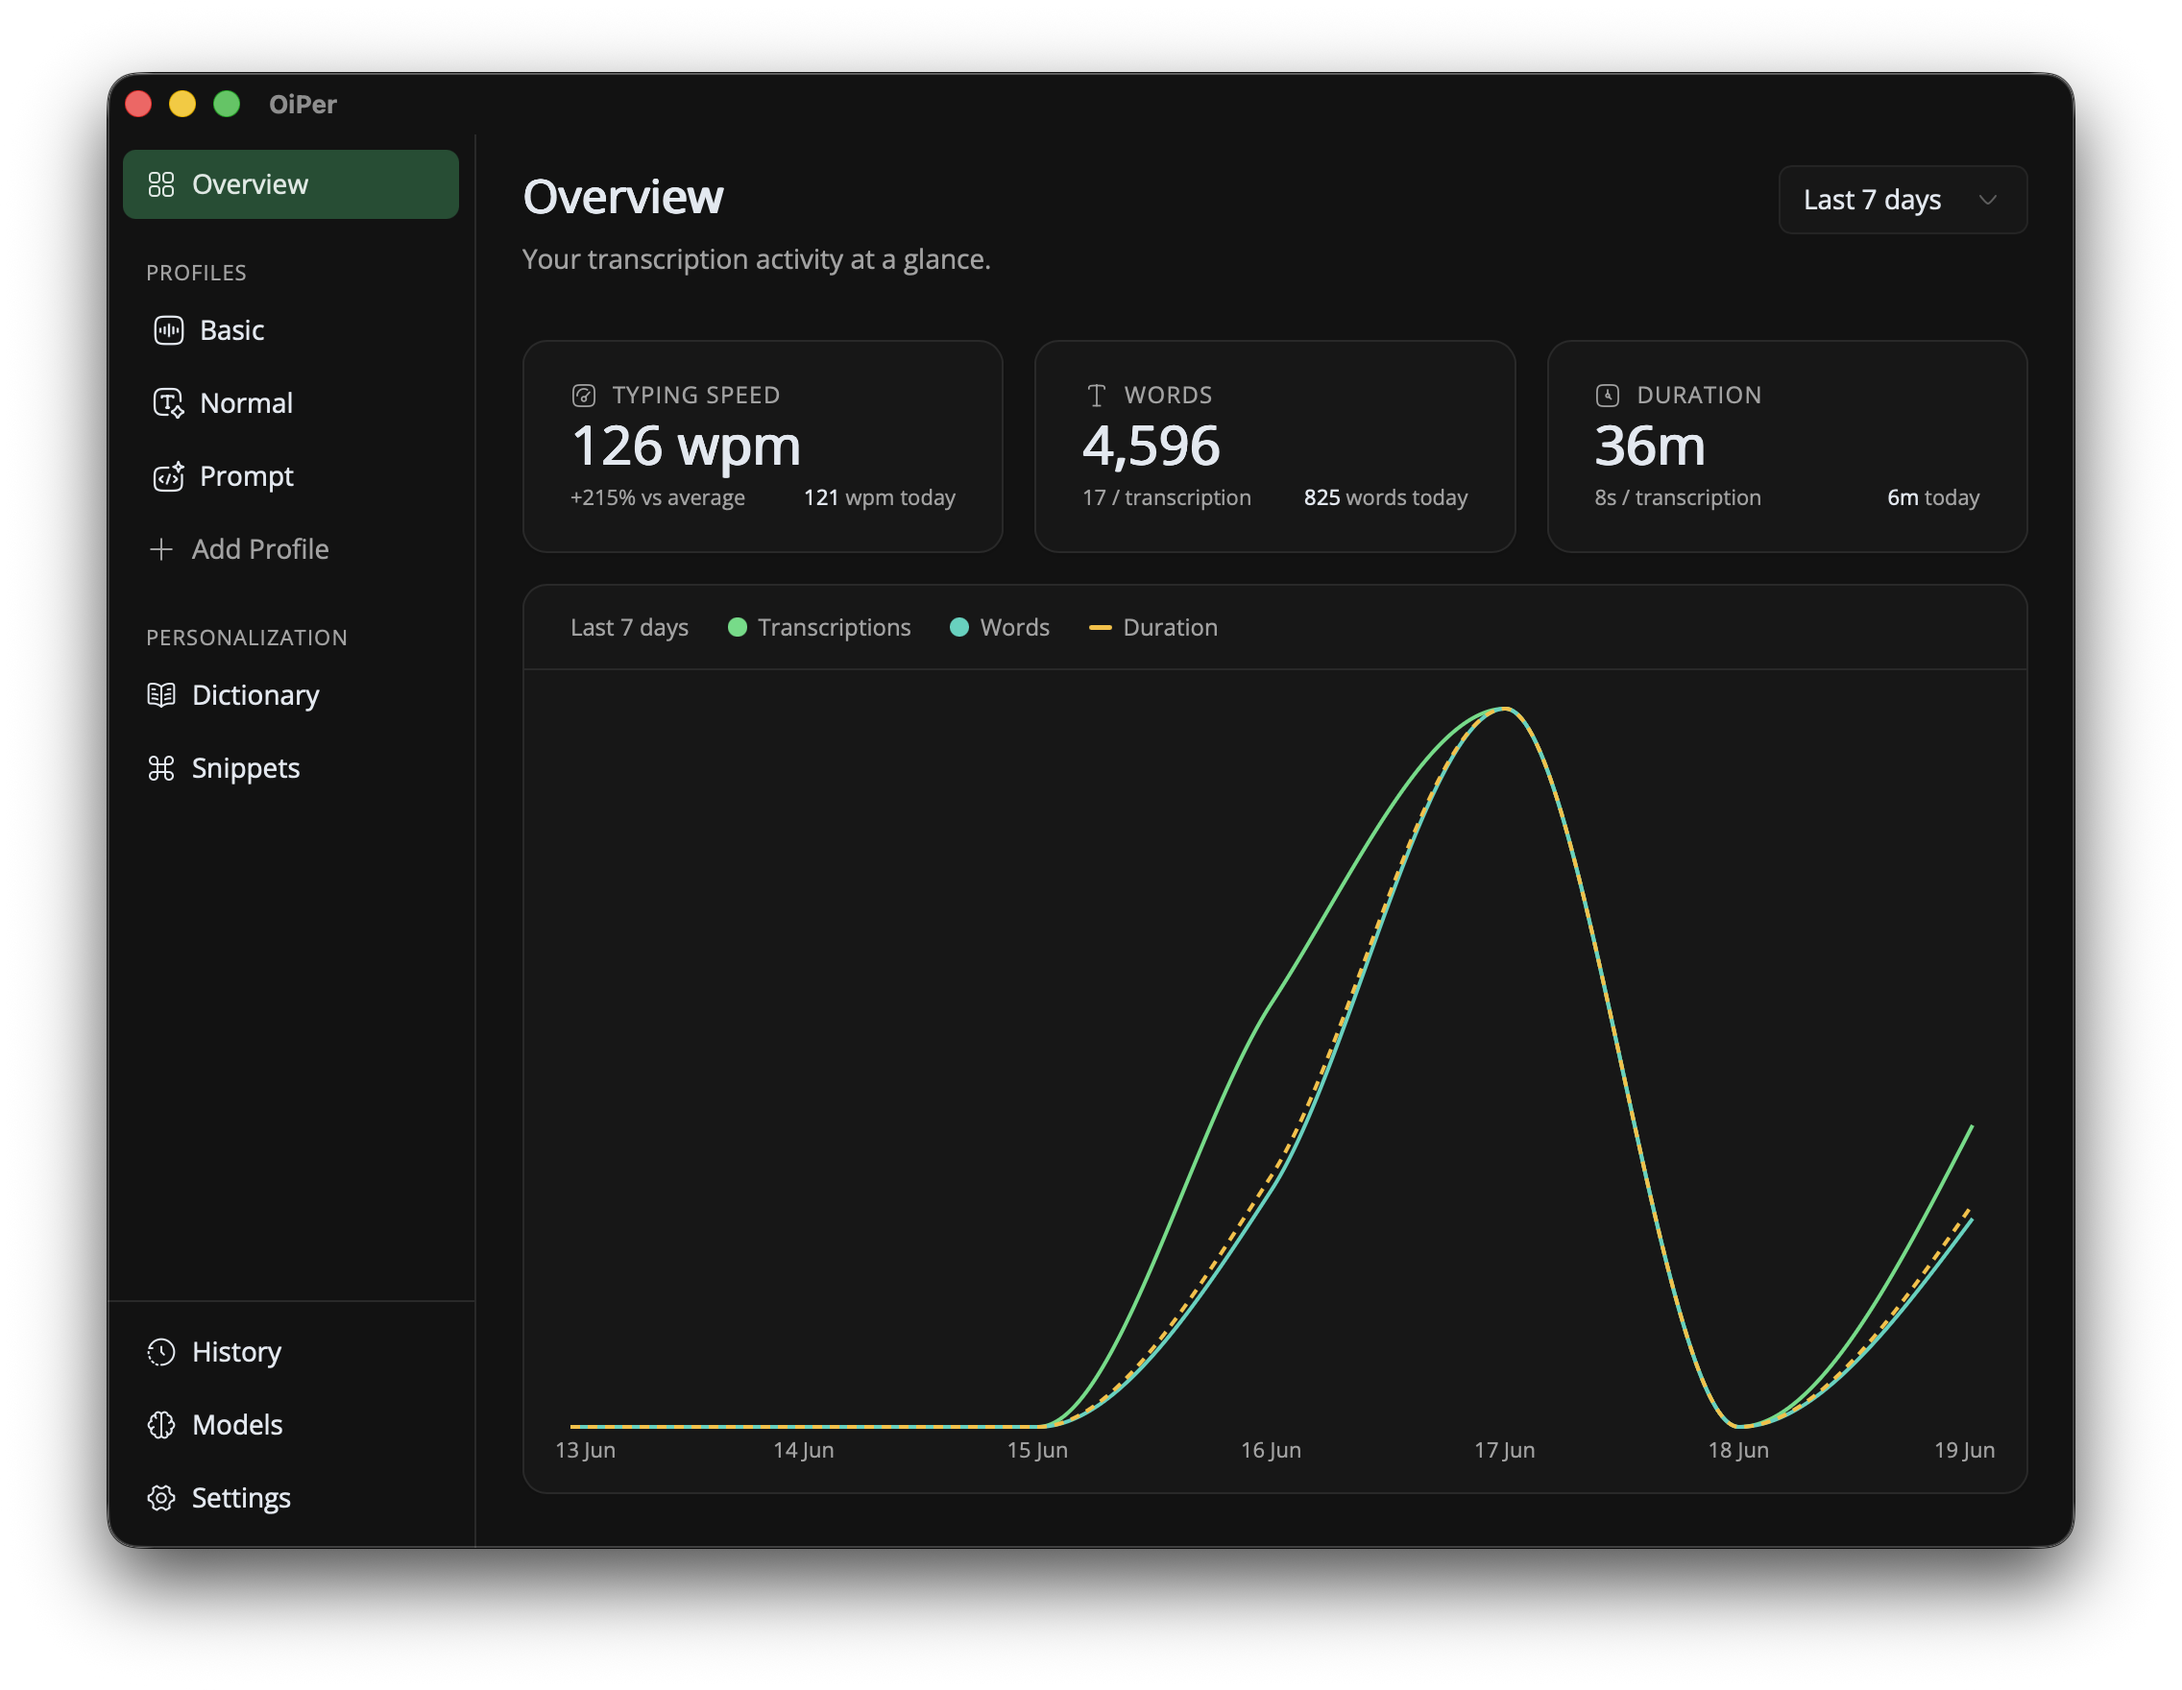
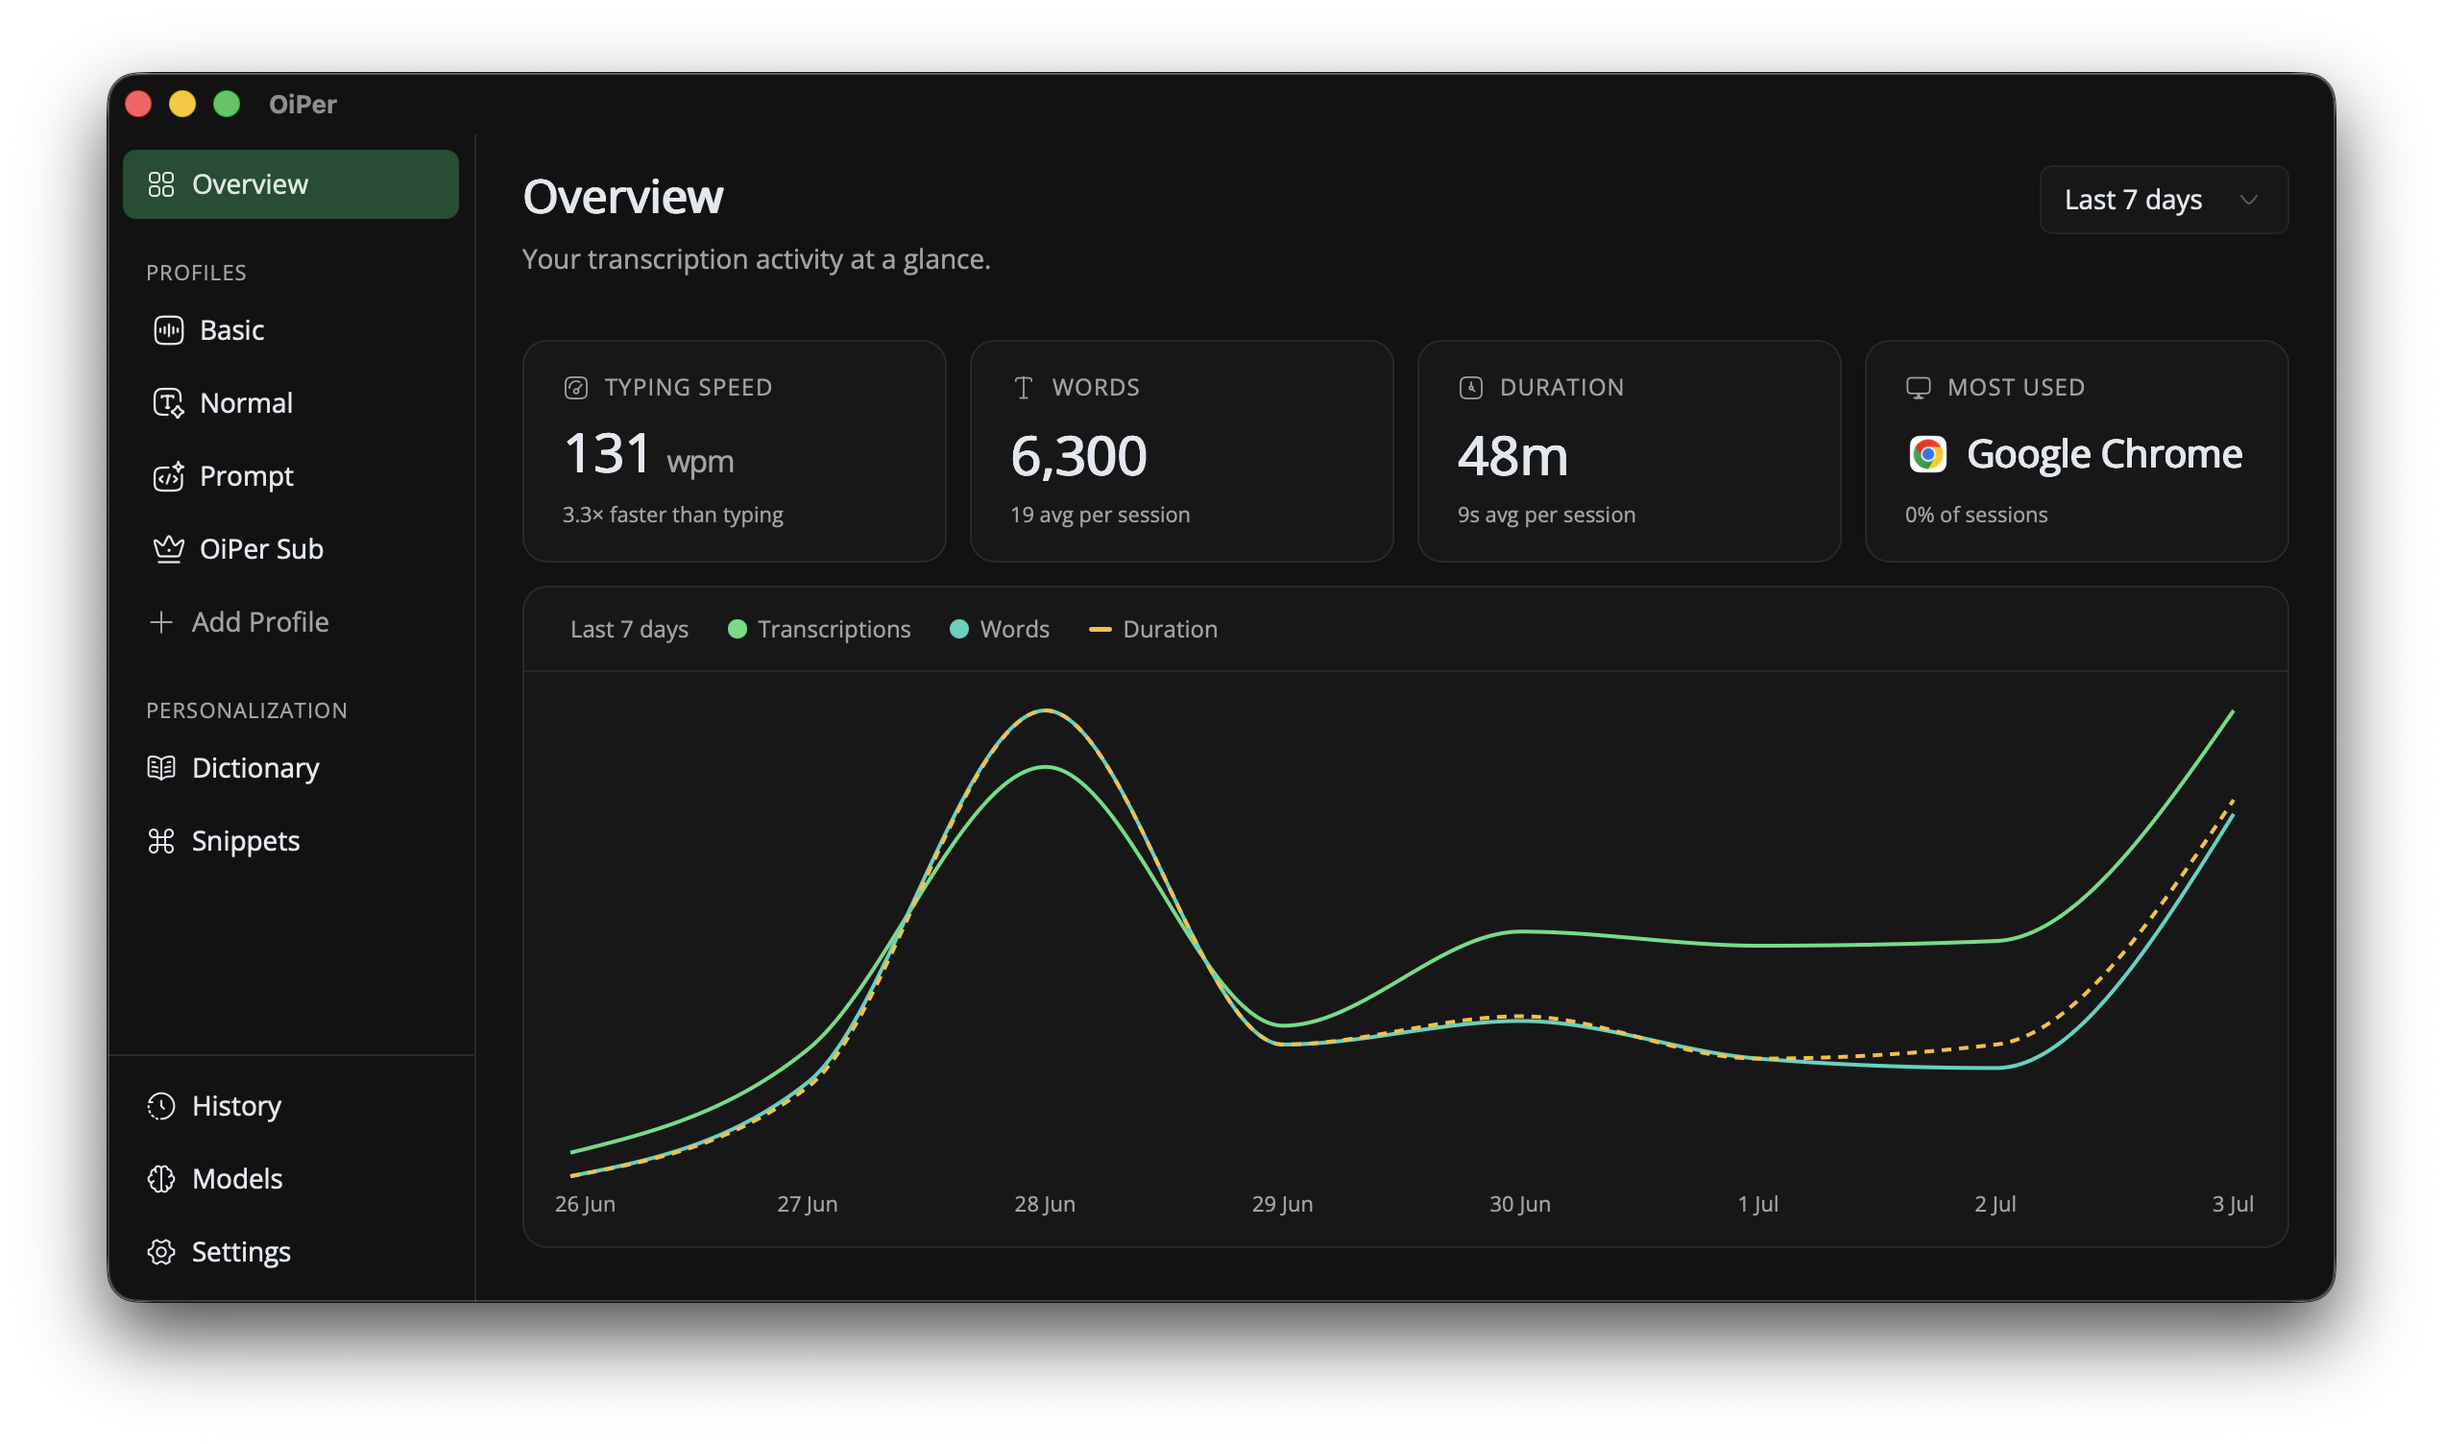
refactor: replace hero image with updated og image in HeroSection component

diff --git a/src/features/landing-page/components/hero-section.tsx b/src/features/landing-page/components/hero-section.tsx
@@ -72,7 +72,7 @@ export function HeroSection() {
       <Wrapper className="relative z-10">
         <div className="relative mx-auto max-w-[1000px]">
           <Image
-            src="/hero.png"
+            src="/og.png"
             alt="OiPer in action"
             width={2272}
             height={1504}
